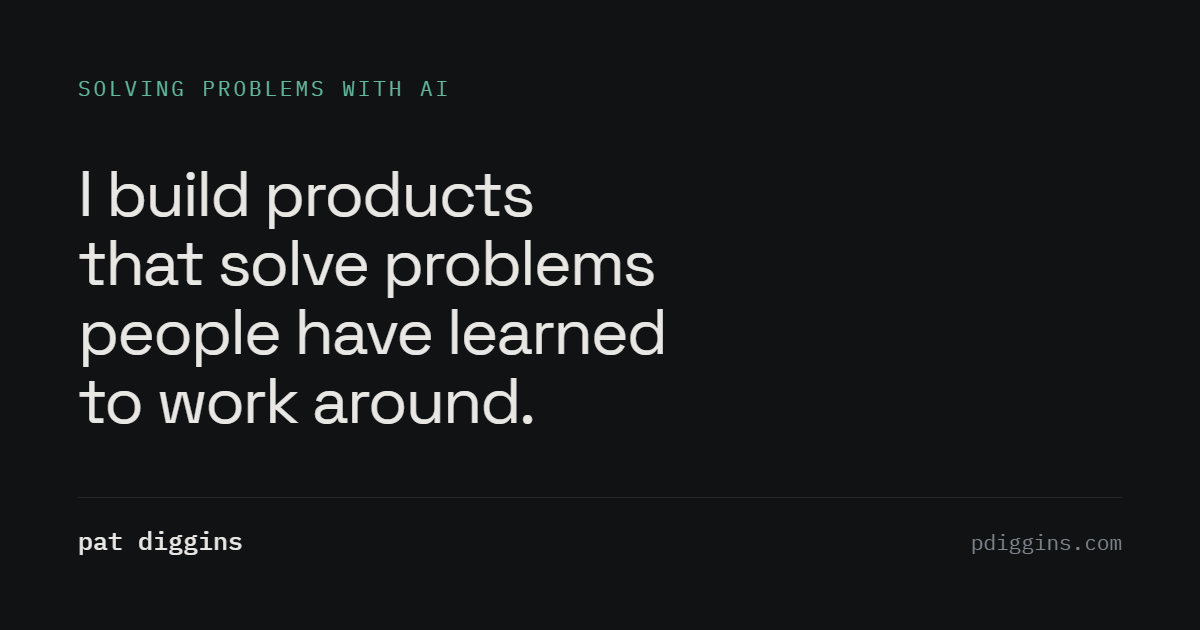
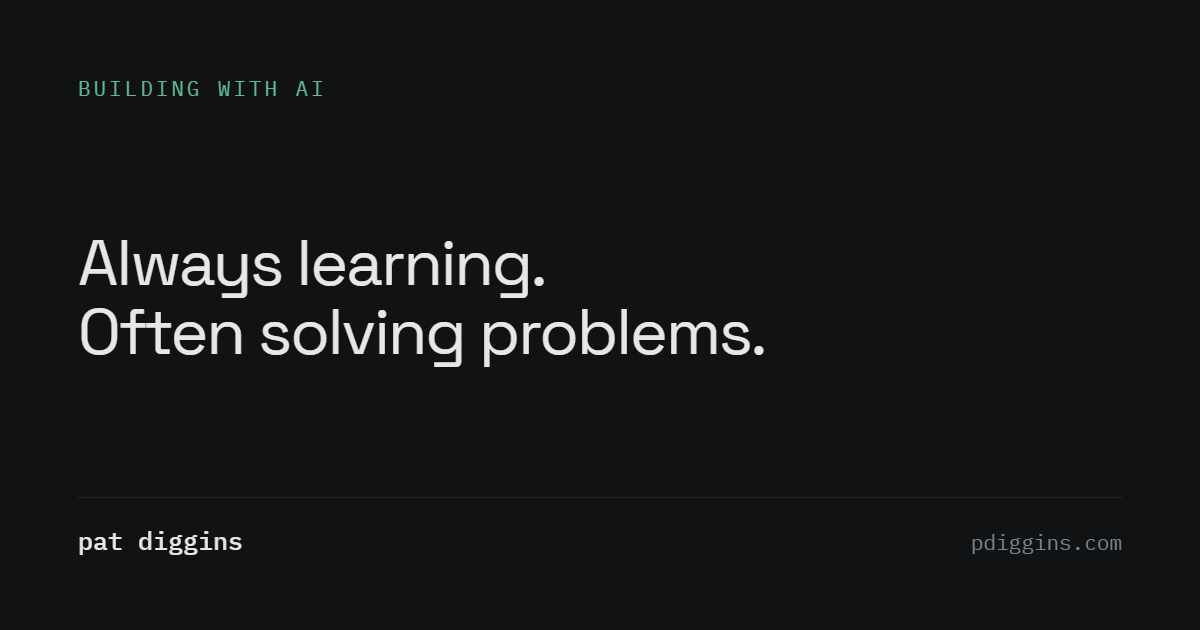
Reword the hero to "Always learning. Often solving problems." (#65)
Owner-supplied copy, and a second string beside it: the eyebrow moves from
"solving problems with ai" to "building with ai". Both are duplicated across
files, so this moves every copy.

The h1 sentence, three places:

- index.html h1, the authoritative claim.
- `description` in _config.yml, which carries it behind a role-and-domain
  prefix, since the new h1 says nothing a search result could act on.
  One string, feeding <meta name="description">, og:description and the JSON-LD
  description on the home page and on 404.
- assets/og/default.png, redrawn by _tools/make_og_card.py.

The eyebrow, three places: index.html, `tagline` in _config.yml, and EYEBROW in
the generator. That coupling was undocumented and is now recorded above the h1
in index.html, where a reword starts.

THE CARD IS TWO LINES, which needed a design value moved. "Often solving
problems." reaches 685px from the column's left edge and the measure was 640px,
so the generator refused the card. The owner chose two lines over a three-line
break after seeing all three candidates drawn. The measure is now 690.

Its comment no longer derives the number from whatever copy is set: the old text
put it at "one 64px em over the widest line as designed", which was a
measurement of the previous sentence. What the number protects -- a third of the
1044px column left as air to the right of the longest line -- is the durable
half, and that is what the comment now states.
[…]

Changed region(s): [[0.0617, 0.2714, 0.6475, 0.6937], [0.0617, 0.1206, 0.37, 0.1508]]

diff --git a/assets/css/style.scss b/assets/css/style.scss
@@ -132,8 +132,10 @@
   src: url("/assets/fonts/SpaceGrotesk-Medium.woff2") format("woff2");
 }
 
-/* Metric-matched stand-in for the display face, and the reason `font-display:
-   swap` does not throw the headline around on first paint.
+/* Metric-matched stand-in for the display face, and what keeps `font-display:
+   swap` from throwing the headline around on first paint. It narrows the
+   movement to a couple of widths rather than removing it; the measured
+   intervals are below.
 
    Space Grotesk sets about 13% WIDER per character than Arial. Unadjusted,
    the hero headline reflows -- often by a whole line -- the moment the webfont
@@ -147,26 +149,40 @@
    0.48170 gives 113.05%, and the ascent, descent and line gap are Space
    Grotesk's own (984/-292/0 per 1000 upm) divided back through that scale.
    Re-derive them if either font is ever replaced. Checked on the current hero
-   string at 47px: 1556.3px real against 1611.5px adjusted, a 3.55% difference.
-   Close, but NOT close enough to hold the wrap at every width. At the 1280 cap
-   of 813px the real face takes two lines and the fallback takes three, so this
-   headline DOES reflow by one line if the fallback paints first; at the 960 cap
-   both take three. The preload in _layouts/default.html is what keeps that
-   window short. Re-measure whenever the hero copy changes: the margin is a
-   property of the particular string, not of the two fonts, and the previous
-   copy held at both widths where this one does not.
+   string at 47px: 856.8px real against 903.3px adjusted, a 5.43% difference.
+   Swept every integer width from 320 to 1440 and spot-checked to 3840, on both
+   faces. They agree everywhere but two intervals: at 336-352 the fallback takes
+   THREE lines against the real face's two, a whole line, and at 719-960 both
+   take two but the fallback breaks a word earlier, so "solving" moves between
+   the lines when the real face lands. The preload in _layouts/default.html is
+   what keeps both windows short.
+
+   THE LINE COUNT IS THE CHECK, and the break word with it. That percentage is
+   NOT: a wider gap can hold a wrap that a narrower one loses, because what
+   decides it is where a string's break candidates fall against the cap, and
+   that belongs to the particular string rather than to the two fonts. NOR IS A
+   SAMPLE -- 336-352 sits between the 320 and the 360 that round numbers reach
+   for, and both of those agree. So re-measure on the built page whenever the
+   hero copy changes, over the domain measured here: every integer width from
+   320 to 1440, plus sampled widths above it, on both faces, counting the breaks
+   and not only the lines. Below 320 is not measured and not claimed; the note
+   in CLAUDE.md owns what happens down there.
 
    WIDTH is matched, not x-height, and the trade is real in both directions.
    Matching x-height instead would put size-adjust at 94.30%, which sets 16.6%
-   narrow per character. On the current hero string that comes out as 1327.4px
-   against 1556.3px -- a 14.70% shortfall rather than 16.6%, because the two
+   narrow per character. On the current hero string that comes out as 744.2px
+   against 856.8px -- a 13.14% shortfall rather than 16.6%, because the two
    numbers measure different things: the first is the average advance ratio, the
-   second is this particular string. That is a reflow of whole lines at every
-   width, against the one width where the shipped values lose a line. The price
-   of matching width is that
-   the fallback's x-height runs 19.9% large, so the swap is visible as a change
-   of weight and size. That is the right way round: a heavier first paint is a
-   flicker, a reflow moves the text the reader is already reading.
+   second is this particular string. Swept the same way it is a WASH on this
+   copy: the x-height variant matches the real face at 336-352 where the shipped
+   values lose a line, and loses one itself at 320-335 where they hold, and both
+   break a word early at 719-960. Width is still what is matched, because the
+   margin belongs to the string and the next copy may not split the difference
+   this evenly -- NOT because this copy makes the case. The price of
+   matching width is that the fallback's x-height runs 19.9% large, so the swap
+   is visible as a change of weight and size. That is the right way round: a
+   heavier first paint is a flicker, a reflow moves the text the reader is
+   already reading.
 
    Arial is the reference because it is the stack's realistic resolution on
    Windows and Android. macOS resolves Helvetica Neue first and will be a
@@ -241,7 +257,9 @@
      labels all deliberately stay where they are.
 
      "Display Fallback" is the metric-matched face declared above and has to
-     stay ahead of the plain families -- it is what makes the swap invisible.
+     stay ahead of the plain families -- it is what keeps the swap from moving
+     the headline at most widths. It does not make the swap invisible: the
+     fallback's x-height runs large, so the weight and size change is seen.
      The plain families behind it are the floor if `local()` finds nothing. */
   --display: "Space Grotesk", "Display Fallback", "Helvetica Neue", Helvetica, Arial, sans-serif;
 
@@ -1511,11 +1529,11 @@ a:hover { color: var(--text); }
   .intro { padding: 34px var(--gutter) 28px; }
   .page-simple { padding: 34px var(--gutter) 28px; }
   /* Leading is raised HERE and nowhere else. The global 1.09 is display
-     leading, tuned for the one or two lines this headline occupies at 47px,
-     where each line is long relative to its height. At 29px in a ~350px column
-     the same copy wraps to THREE lines, and to four at 320 -- measured, not
-     estimated -- which reads as a block of text rather than a display line, and
-     text at display leading reads dense.
+     leading, tuned for lines that are long relative to their own height, which
+     is what this headline sets at 47px. At 29px it sets in a ~350px column
+     instead -- two lines there, three below 336, measured, not estimated --
+     where the lines are short enough to stack close and read dense at display
+     leading.
 
      Deliberately NOT applied to .story-title. Every story title measures one or
      two lines at both 390 and 1280, which is the case 1.10 is already tuned

diff --git a/index.html b/index.html
@@ -19,8 +19,18 @@ The h1 below is the authoritative hero claim and lives here as page markup. It
 is NOT the only copy of that sentence: `description` in _config.yml carries a
 prefixed version as metadata, and assets/og/default.png sets it as type in the
 share card. Rewording it here means moving all three, or the page's own search
-snippet and link preview contradict the page. site.title and site.tagline stay
-in config for the seo tag and are deliberately not printed on the page.
+snippet and link preview contradict the page.
+
+THE EYEBROW HAS THE SAME SHAPE, and is easier to miss because it is three
+words. The card sets it as type as well, from EYEBROW in
+_tools/make_og_card.py, and site.tagline in _config.yml carries the same words
+as metadata. The generator gates its eyebrow against og_image.alt, along with
+the headline's LINE COUNT, the wordmark and the url -- but the headline's
+wording is deliberately not in that alt text, and nothing checks either string
+against this page or against the tagline.
+
+site.title and site.tagline stay in config for the seo tag and are deliberately
+not printed on the page.
 
 This MUST be a Liquid comment, not an HTML one. Liquid executes tags inside
 HTML comments: naming the seo tag in a `<!-- -->` block expanded it, and its
@@ -32,13 +42,13 @@ The ONE section on this page with no aria-labelledby, deliberately. The only
 heading inside it is the page h1, which names the WHOLE PAGE rather than a
 region within it, and the nav does not anchor here. Left unnamed this stays a
 generic box inside <main>, which is correct: pointing at the h1 would put a
-landmark named "I build products that solve problems people have..." in the
-landmark list, and that heading is already reachable by heading navigation.
+landmark named "Always learning. Often solving problems." in the landmark list,
+and that heading is already reachable by heading navigation.
 The five anchored sections below are the named regions; see the note on #work.
 {%- endcomment -%}
 <section class="intro">
-  <p class="eyebrow">solving problems with ai</p>
-  <h1>I build products that solve problems people have learned to work around.</h1>
+  <p class="eyebrow">building with ai</p>
+  <h1>Always learning. Often solving problems.</h1>
   {%- comment -%}
   Four facts and three separators, each its own element. The separators are
   marked up rather than generated for the same reason as .site-crumb-sep:

diff --git a/_layouts/default.html b/_layouts/default.html
@@ -104,12 +104,15 @@
     it starts alongside the CSS instead.
 
     WHAT IT BUYS IS A SHORTER SWAP, NOT A LAYOUT FIX. `font-display: swap` plus
-    the metric-matched "Display Fallback" face already stop the headline
-    REFLOWING when the real font lands -- see the metrics note in
-    assets/css/style.scss. What they do not stop is the swap being visible: the
-    fallback's x-height runs large, so first paint is a different weight and
-    size. This shortens the time that mismatched paint is on screen and changes
-    no geometry.
+    the metric-matched "Display Fallback" face hold the headline's line count at
+    almost every width, but not all: there are widths where the fallback loses a
+    line and widths where it keeps the count and breaks a word earlier, so the
+    headline CAN move when the real font lands. The metrics note in
+    assets/css/style.scss owns the measured intervals; do not restate them here.
+    Nor do they stop the swap being visible: the fallback's x-height runs large,
+    so first paint is a different weight and size. This shortens the time that
+    mismatched paint is on screen. It is the only lever here that does -- the
+    preload changes no geometry itself.
     {%- endcomment -%}
     <link rel="preload" href="{{ '/assets/fonts/SpaceGrotesk-Regular.woff2' | relative_url }}" as="font" type="font/woff2" crossorigin>
     <link rel="stylesheet" href="{{ '/assets/css/style.css' | relative_url }}">

diff --git a/_tools/make_og_card.py b/_tools/make_og_card.py
@@ -149,9 +149,8 @@ OUT = ROOT / "temp/og-render"              # scratch; gitignored
 
 # --- The card ---------------------------------------------------------------
 
-EYEBROW = "solving problems with ai"       # index.html's .intro .eyebrow, verbatim
-HEADLINE = ["I build products", "that solve problems",
-            "people have learned", "to work around."]
+EYEBROW = "building with ai"               # index.html's .intro .eyebrow, verbatim
+HEADLINE = ["Always learning.", "Often solving problems."]
 
 # --- Canvas and column ------------------------------------------------------
 
@@ -200,11 +199,15 @@ LINE_PITCH = 69
 
 MAX_LINES = 5
 MIN_CLEARANCE = 40
-# The widest line on the card as designed is 580px. This is about one 64px em of
-# headroom over that, and it keeps at least 400px of air to the right of the
-# longest line, which is what makes the card read as display type rather than as
-# a paragraph.
-MAX_LINE_WIDTH = 640
+# How far right a headline line may reach, measured from COL_LEFT to its last
+# ink. A line may not fill the column: what makes the card read as display type
+# rather than as a paragraph is the air left to the right of the longest line,
+# and this keeps that above a third of the 1044px column.
+#
+# The floor is the durable half. Copy that reaches past it is re-broken or
+# rewritten -- never shrunk, and never admitted by moving this number to suit one
+# sentence, which would leave a measure that refuses nothing.
+MAX_LINE_REACH = 690
 
 NUMBER_WORD = {1: "one", 2: "two", 3: "three", 4: "four", 5: "five"}
 
@@ -514,6 +517,18 @@ def fit(eyebrow, lines):
     of naming the problem.
     """
     problems = []
+    # WHITESPACE AT AN EDGE MOVES THE ELEMENT, and only the headline is measured
+    # for where it ends up. The eyebrow, the wordmark and the url have no reach
+    # constraint at all, so a leading space silently indents one of them and
+    # every check still agrees -- they predict from the same shift. Caught here
+    # for all four rather than left to the one measure that would notice.
+    # Refused rather than stripped: the breaks are editorial, and silently
+    # rewriting one is the thing this tool does not do.
+    for label, text in [("the eyebrow", eyebrow), ("the wordmark", WORDMARK),
+                        ("the url", URL)] + \
+                       [(f"L{i}", line) for i, line in enumerate(lines, 1)]:
+        if text != text.strip():
+            problems.append(f"{label} has whitespace at an edge: {text!r}")
     for label, text, type_ in [("the eyebrow", eyebrow.upper(), EYEBROW_TYPE),
                                ("the wordmark", WORDMARK, WORDMARK_TYPE),
                                ("the url", URL, URL_TYPE)]:
@@ -560,10 +575,16 @@ def fit(eyebrow, lines):
         if not spans:
             problems.append(f"L{i} has no ink")
             continue
-        width = spans[-1][1] - spans[0][0]
-        if width > MAX_LINE_WIDTH:
-            problems.append(f"L{i} sets {width:.0f}px wide, over the {MAX_LINE_WIDTH}px "
-                            f"measure by {width - MAX_LINE_WIDTH:.0f}px: {line!r}")
+        # Measured to where the ink ENDS, from the column's left edge, not as the
+        # span between first and last ink. The two differ by the first glyph's
+        # left side bearing, and only the first one is the air the measure exists
+        # to protect -- a line is refused for reaching too far right, which is
+        # where it is seen, not for being wide somewhere else on the canvas.
+        reach = spans[-1][1] - COL_LEFT
+        if reach > MAX_LINE_REACH:
+            problems.append(f"L{i} reaches {reach:.0f}px from the column's left edge, "
+                            f"over the {MAX_LINE_REACH}px measure by "
+                            f"{reach - MAX_LINE_REACH:.0f}px: {line!r}")
     clearance = head_cap_top(len(lines)) - EYEBROW_BASELINE
     if clearance < MIN_CLEARANCE:
         problems.append(f"{clearance}px of clearance under the eyebrow, against a floor "
